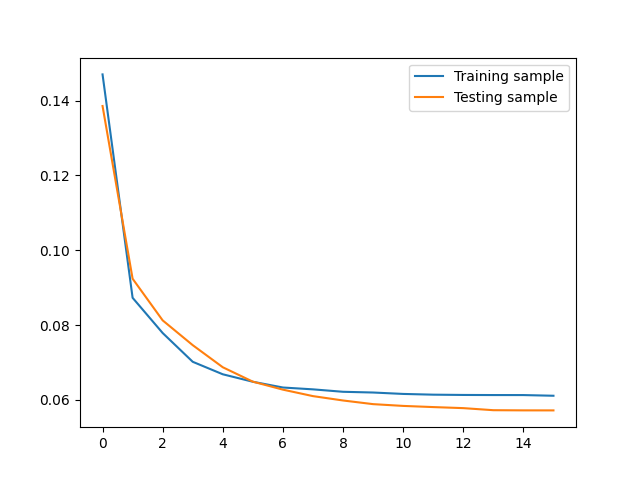
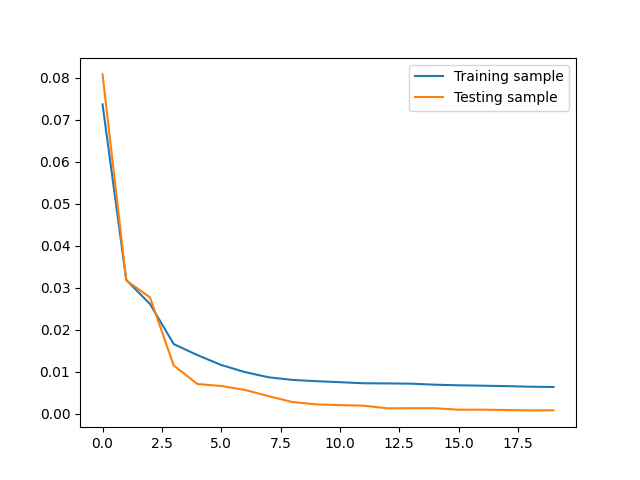
parameter update in b)

diff --git a/p1/code_p1.py b/p1/code_p1.py
@@ -185,8 +185,8 @@ def part_b(seed, show_print=False):
     #! Make a figure similar to figure 2.11 of Hastie et al
     #* Declaring component variables and data
     test_size = 0.2
-    n_len     = 64             # Data point length/no. of observations
-    n_polys   = np.arange(16)  # Polynomial sizes for the 2.11-replication plot
+    n_len     = 20             # Data point length/no. of observations
+    n_polys   = np.arange(20)  # Polynomial sizes for the 2.11-replication plot
     p_len     = np.array([mf.compute_n_predictors_2dim(n_p) for n_p in n_polys])
     print(f"(b): p_len = {p_len}") # For my own benefit
     # Base meshgrid data:
@@ -194,7 +194,7 @@ def part_b(seed, show_print=False):
     y = np.sort(np.random.uniform(0, 1, n_len))
     x, y = np.meshgrid(x, y)
     # z's data w/noise:
-    sigma_noise, mu_noise = 0.25, 0
+    sigma_noise, mu_noise = 0.1, 0
     noise_z = sigma_noise*np.random.randn(n_len, n_len) + mu_noise
     z = mf.compute_FrankeFunction(x, y) + noise_z
 
@@ -241,11 +241,11 @@ def part_b(seed, show_print=False):
         mse_trains[i] = mf.compute_MSE(z_scaled_data_train, ztilde_train)
         mse_tests [i] = mf.compute_MSE(z_scaled_data_test , ztilde_test )
 
-        if i == 4:
-            train_inds_4 = train_inds
-        if i == 5:
-            train_inds_5 = train_inds
-            print("array_equal(train_inds_4, train_inds_5)? :=", np.array_equal(train_inds_4, train_inds_5))
+        # if i == 4:
+            # train_inds_4 = train_inds
+        # if i == 5:
+            # train_inds_5 = train_inds
+            # print("array_equal(train_inds_4, train_inds_5)? :=", np.array_equal(train_inds_4, train_inds_5))
 
             # shape_z_train = x[train_inds].shape
             # print(X_train.shape, x.shape)
@@ -261,7 +261,7 @@ def part_b(seed, show_print=False):
             # dummy = input("close plot and continue:")
             # shape_z_test = x[test_inds].shape
             # pf.plot_FrankeFunction(x[test_inds], y[test_inds], ztilde_test.reshape(shape_z_test))
-            pass
+            # pass
         continue
 
     # Now we can plot the MSEs against one another
@@ -340,8 +340,8 @@ def part_g(seed):
 def main(seed):
     """ Primary flow of this script """
     # Execution
-    part_a(seed, show_print=1)
-    # part_b(seed, show_print=1)
+    # part_a(seed, show_print=1)
+    part_b(seed, show_print=1)
     # part_c(seed)
     # part_d(seed)
     # part_e(seed)
@@ -355,7 +355,7 @@ if __name__ == "__main__":
     PROJECT_ROOT_DIR = project_path+"/Results"
     FIGURE_ID        = project_path+"/Results/FigureFiles"
     DATA_ID          = project_path+"/DataFiles/"
-    seed = 4155
+    seed = 2022 #4155
     np.random.seed(seed)
 
     if not os.path.exists(PROJECT_ROOT_DIR):
